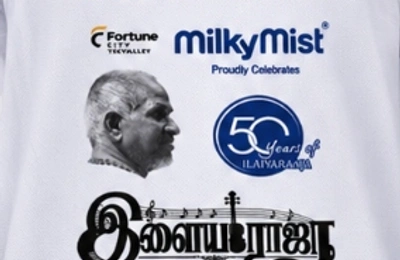
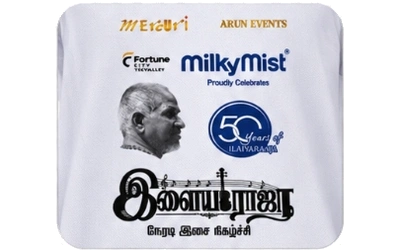
fix(events): remove lilac background artifact behind ilaiyaraaja model, extract high-res uncropped detail cards, and switch to object-contain

diff --git a/src/pages/Categories/components/ClientUniformShowcase.tsx b/src/pages/Categories/components/ClientUniformShowcase.tsx
@@ -964,7 +964,7 @@ export const ClientUniformShowcase: React.FC<ClientUniformShowcaseProps> = ({
                 <img
                   src={detail.image}
                   alt={detail.title}
-                  className="w-full h-full object-cover scale-[1.12] transition-transform duration-500 group-hover:scale-[1.18]"
+                  className="w-full h-full object-contain transition-transform duration-500 group-hover:scale-105"
                   style={{
                     borderRadius: '32px',
                   }}
@@ -1003,7 +1003,7 @@ export const ClientUniformShowcase: React.FC<ClientUniformShowcaseProps> = ({
                 <img
                   src={detail.image}
                   alt={detail.title}
-                  className="w-full h-full object-cover scale-[1.12]"
+                  className="w-full h-full object-contain"
                   style={{ borderRadius: '24px' }}
                 />
               </div>
